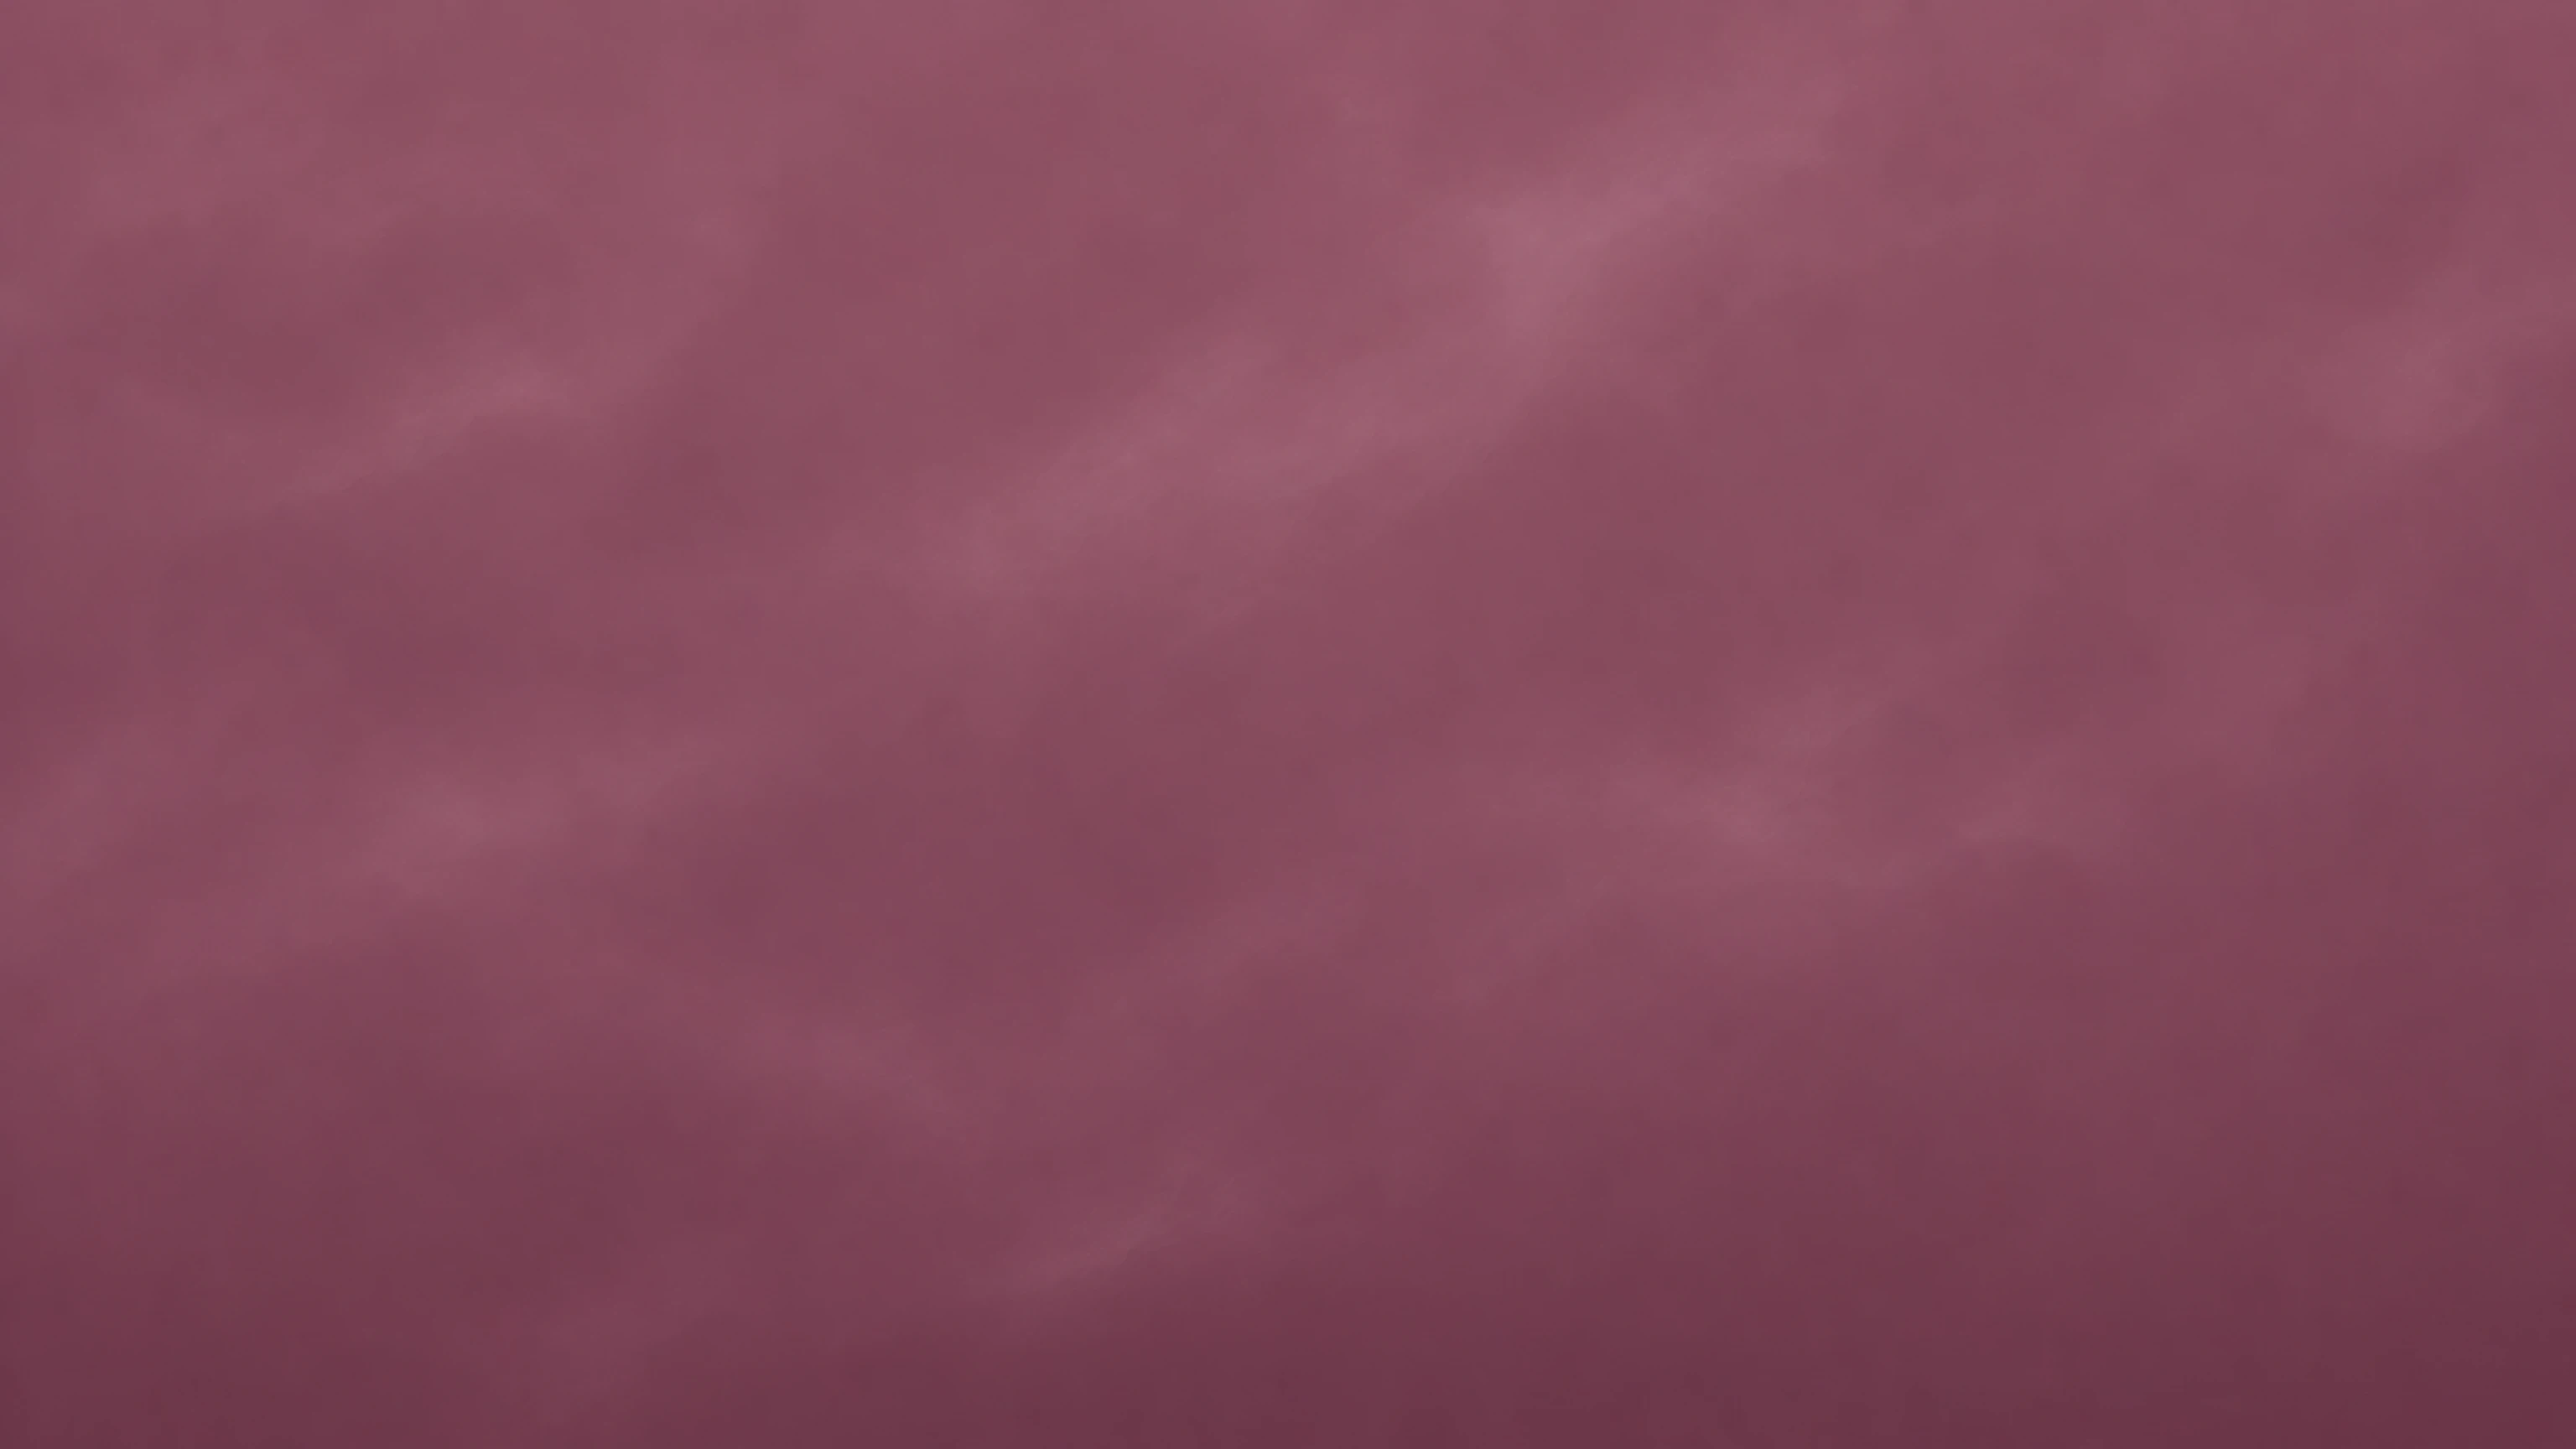
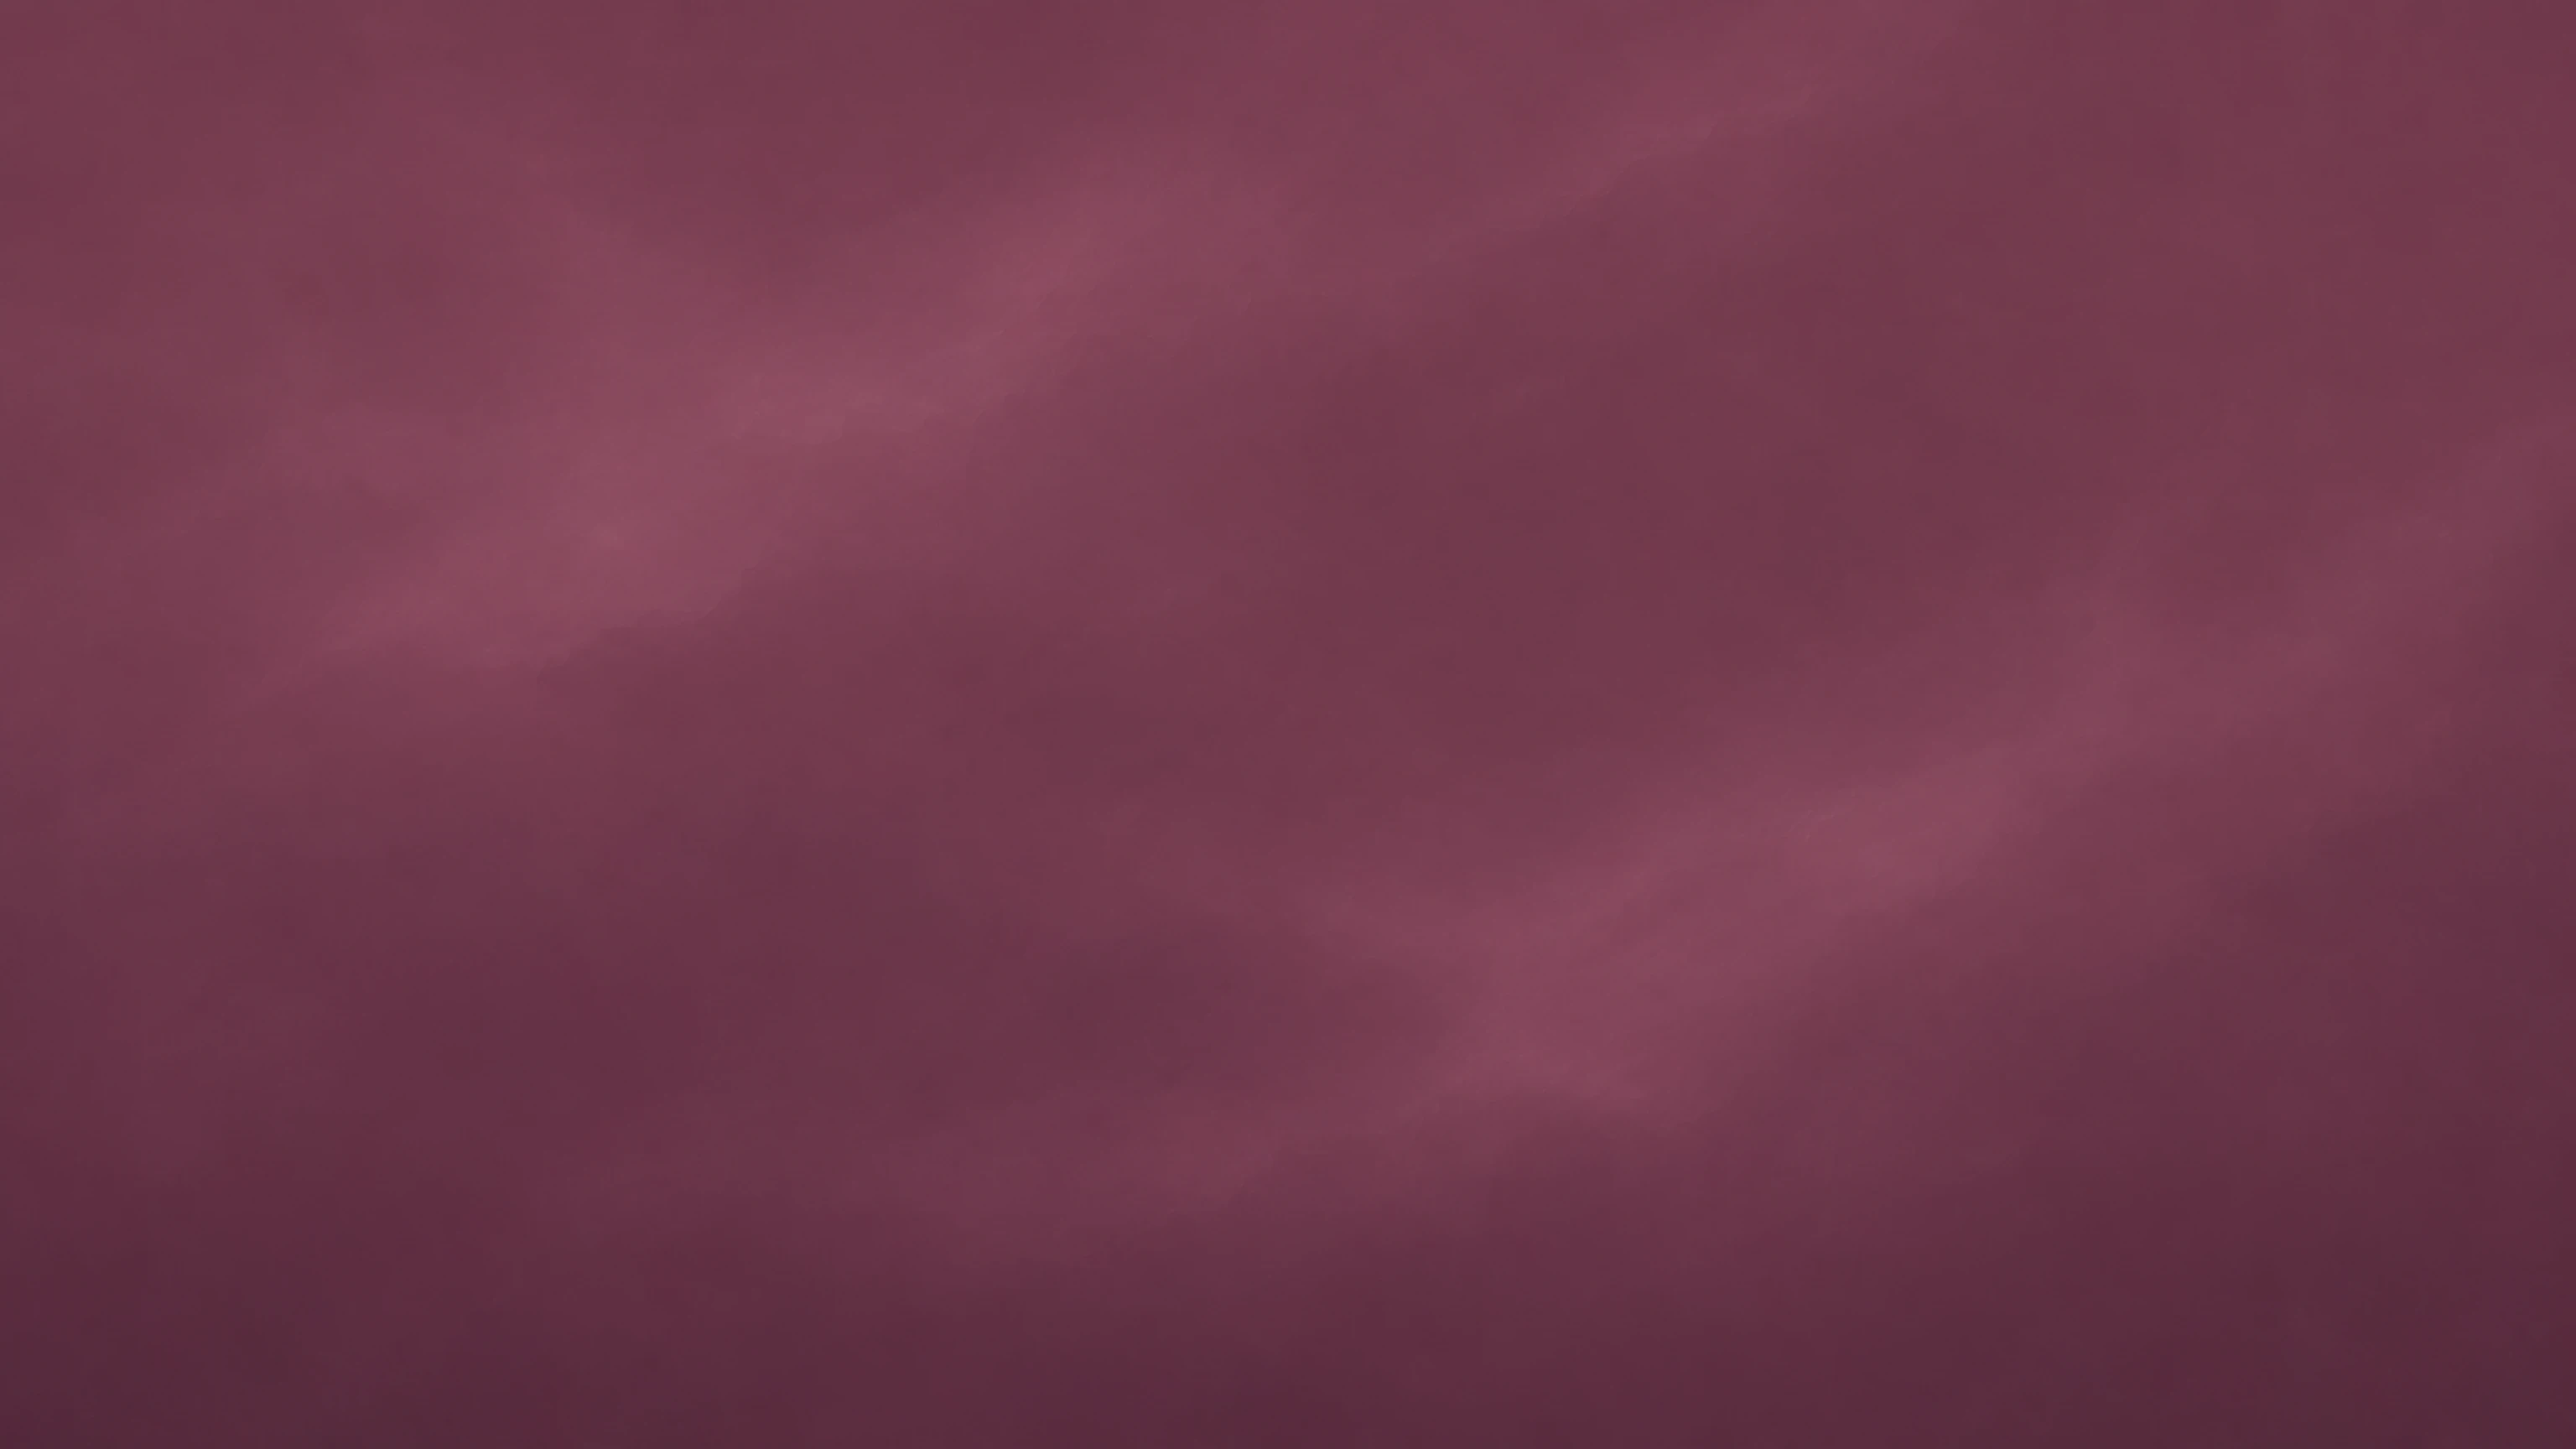
rosequartz: palace Material slab master replaced by T2 (fresh chat, 9/10, deeper for ivory text)

diff --git a/tools/material-clubhouses/material_check.py b/tools/material-clubhouses/material_check.py
@@ -145,12 +145,11 @@ LOOKS = {
                               # edge of the counter after the counter light edit (1.9 before it), the rest the stadium floodlights
                               # and the lamps; the wall slabs and the counter face hold none.
                               CLUB=dict(glint_max=11.5),
-                              # Slab PALACE_T1E2 (locked 28 Nov at 8.5 under Nik's 8-and-above bar, 08:44 UTC): #874d5f, luma 88.3,
-                              # detail 0.41. Rose quartz is the palest stone in the set, so the slab sits brighter than Lapis (46.7),
-                              # Emerald (39.1) and Ruby (25.1), but ivory text (#f2ebdd) still holds WCAG AA on it: contrast 5.4 at
-                              # the median and 4.6 at p95. Detail sits under the counters' 0.56-0.64 at slab scale because the slab
-                              # is one calm field of soft misty clouds with no joints or lamp edges.
-                              SLAB=dict(luma=(14, 89), detail_min=0.40))),
+                              # Slab PALACE_T2 (locked 28 Nov, fresh chat with deep night hex targets): #733b4e, luma 71.3, detail 0.50.
+                              # Ivory text (#f2ebdd) holds WCAG AA everywhere on it: contrast 7.2 at the median, 4.9 at its brightest.
+                              # Detail sits under the counters' 0.56-0.64 at slab scale because the slab is one calm field of soft
+                              # misty clouds with no joints or lamp edges. (T1E2, 8.5: luma 88.3, contrast 5.4, was replaced.)
+                              SLAB=dict(detail_min=0.45))),
 }
 ORDER = ["RUBY", "EMERALD", "LAPIS", "ROSEQUARTZ", "AMETHYST", "RHODOCHROSITE", "VIOLA"]
 

diff --git a/project-documents/hc-art/material-clubhouses/rosequartz/RUN_SHEET_ROSEQUARTZ.md b/project-documents/hc-art/material-clubhouses/rosequartz/RUN_SHEET_ROSEQUARTZ.md
@@ -43,7 +43,7 @@ Image links are pinned to commit `a6c0666d`, so they never move.
 | Players' tunnel (RQ-8) | 8.5 | 8.5 | 2 (T1E1, locked 28 Nov) | thin pale streaks on the wall slabs and the counter (the stone edit cleared them; glint 5.0 on the counter's lit top edge, the goal and hair, the same as the Lapis tunnel master) |
 | Club room (RQ-9) | 8.5 | 8.5 | 3 (T1E2, locked 28 Nov) | thin pale veins on the back wall and the counter (stone edit cleared them), then a flat counter, 123 to 82 (the counter light edit gave 149 to 46; its lit top edge lifts glint to 11.0). The floodlight wash kept the far back wall a readable mid rose on the first try |
 | Loading tunnel (RQ-10) | 8.5 | 8 | 3 (T1E2, locked 28 Nov) | fine pale veins on the walls, pillars and counter (stone edit cleared them), and flat light: the left walls across from the one lamp as bright as beside it (light edit: left walls 120 to 70, lamp pool 175, counter 100 to 37) |
-| Material slab (RQ-11) | 8.5 | 7.5 | 3 (T1E2, locked 28 Nov at 8.5 under the 8-and-above bar) | first try a pale pastel pink (luma 133): the prompt gave no night depth target and Image 2's lamp-lit stone pulled it pale; two light edits took it to #874d5f, luma 88, ivory text contrast 5.4 median, 4.6 p95. Next time give the slab its deep night hex targets up front and use Image 2 for material only |
+| Material slab (RQ-11) | 8.5 | 7.5 | 4 (T2, fresh chat, 9/10) | first try a pale pastel pink (luma 133): the prompt gave no night depth target and Image 2's lamp-lit stone pulled it pale; two light edits only reached luma 88 (8.5). A fresh chat with deep night hex targets up front and Image 2 for material only gave #733b4e, luma 71, ivory text contrast 7.2 median, 4.9 at its brightest |
 
 ## Batch 1: the 8 desktop rooms and the material slab (Rosequartz 3-11)
 Image 2 for every ticket here: the people-free cut of the two approved pilot rooms.
